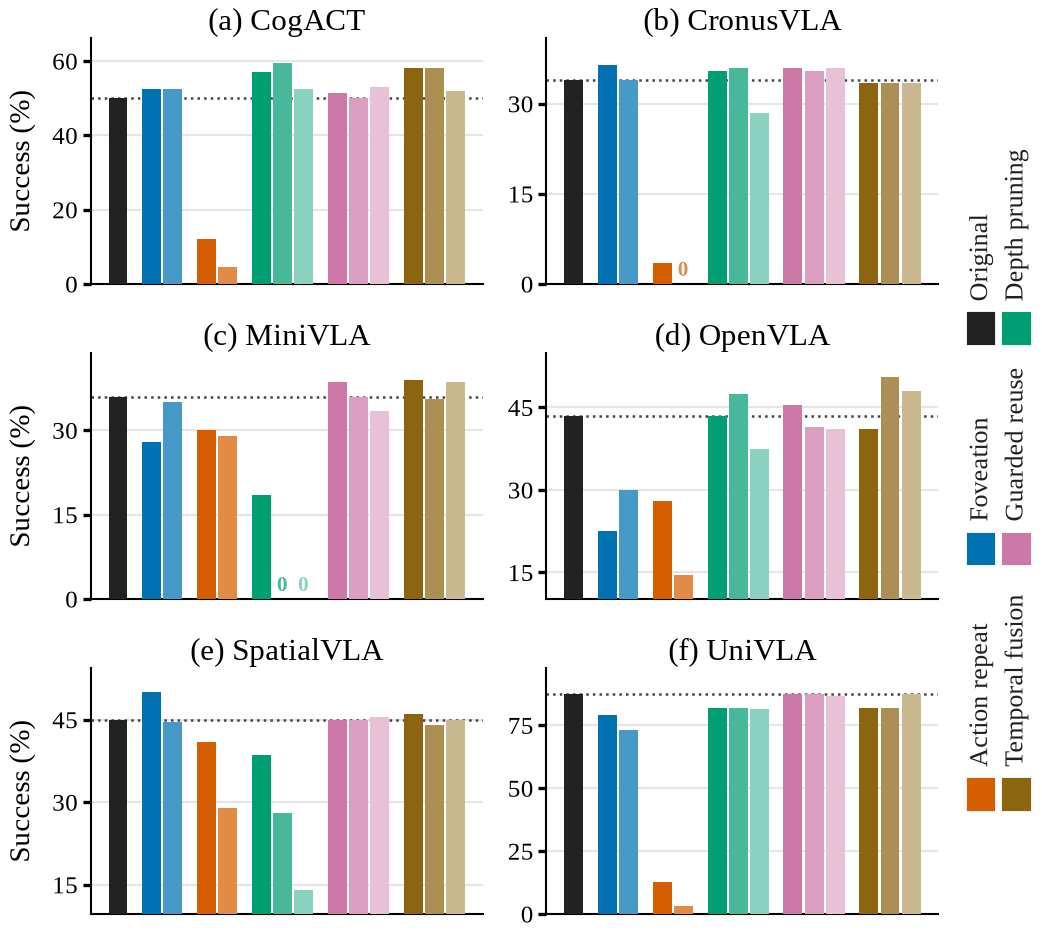
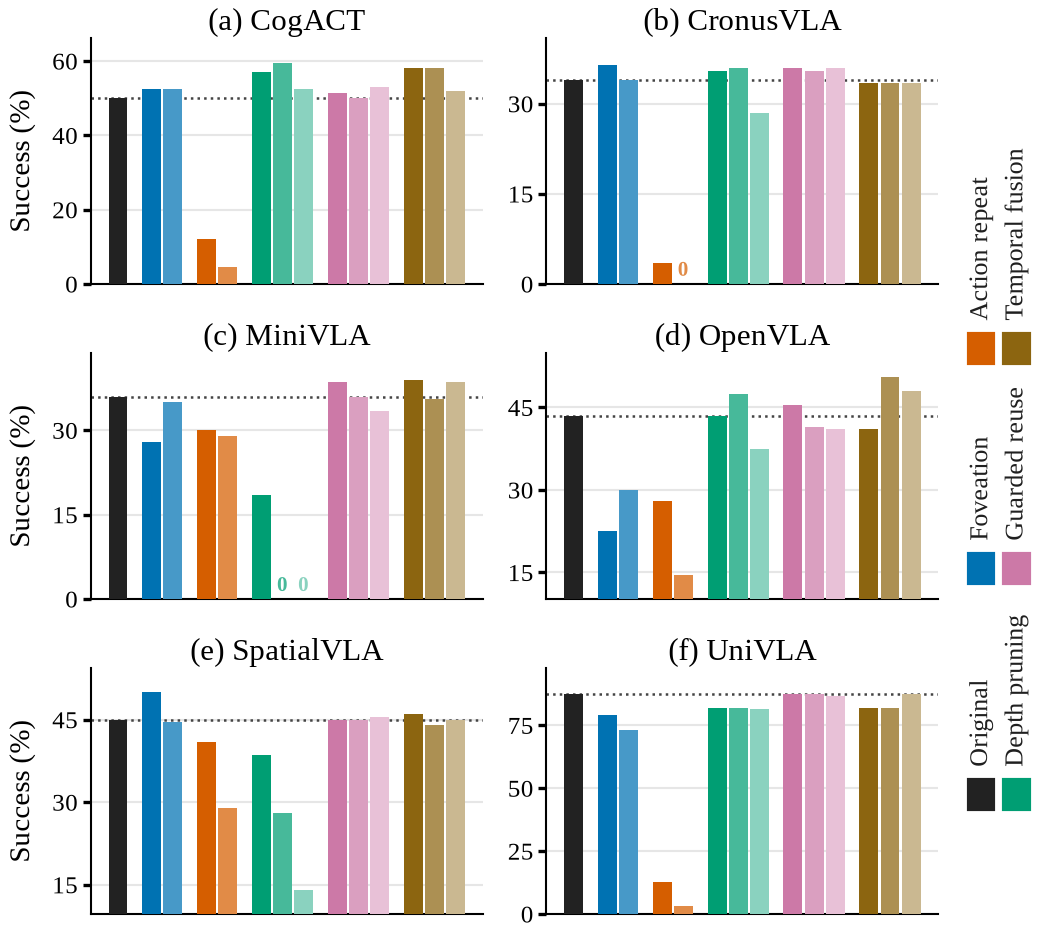
Fig. 1 teaser: rotated legend reads bottom to top so it matches the bar order once the page is turned
Claude-Session: https://claude.ai/code/session_011USoCwMtkSq1wKhwTPjNT9

Changed region(s): [[0.9213, 0.1547, 1.0, 0.8666]]

diff --git a/experiments/paper/figures_combined/make_teaser_bars.py b/experiments/paper/figures_combined/make_teaser_bars.py
@@ -99,14 +99,18 @@ def teaser(name, env='bridge', size=(3.5, 2.75), grid=(2, 3), legend='top'):
         rows = list(zip(*cols))  # ncols == 1: six rows of one; ncols == 2: three rows of two
         h_sw = sw / strip_h; g = gap / strip_h
         row_h = [max(lens[f] for f in row) / strip_h + h_sw + 2 * g for row in rows]
-        y = 1.0 - (1.0 - sum(row_h)) / 2
+        # The labels read upward, so the first entry of each column sits at the bottom and
+        # the list reads like a normal two-row legend once the page is turned (Junseo,
+        # 2026-09-15 evening): left strip Original, Foveation, Action repeat; right strip
+        # Depth pruning, Guarded reuse, Temporal fusion.
+        y = (1.0 - sum(row_h)) / 2                      # bottom of the centred block
         for row, rh in zip(rows, row_h):
             for c, f in enumerate(row):
                 xc = (c + 0.5) / ncols; hw = 0.35 / ncols
-                y_sw = y - rh + g                       # swatch at the bottom of the row
+                y_sw = y + g                            # swatch at the bottom of the row
                 lax.add_patch(Rectangle((xc - hw, y_sw), 2 * hw, h_sw, transform=lax.transAxes, color=common.COLORS[f], clip_on=False))
                 lax.text(xc, y_sw + h_sw + g, common.FAMILIES[f], rotation=90, fontsize=fs, ha='center', va='bottom', color='#202020')
-            y -= rh
+            y += rh
         lax.set_clip_on(False)
     else:
         fig.legend(handles=handles, loc='outside upper center', ncol=3, frameon=False, handlelength=1.1, handletextpad=.4, columnspacing=1.0, borderaxespad=.1)
